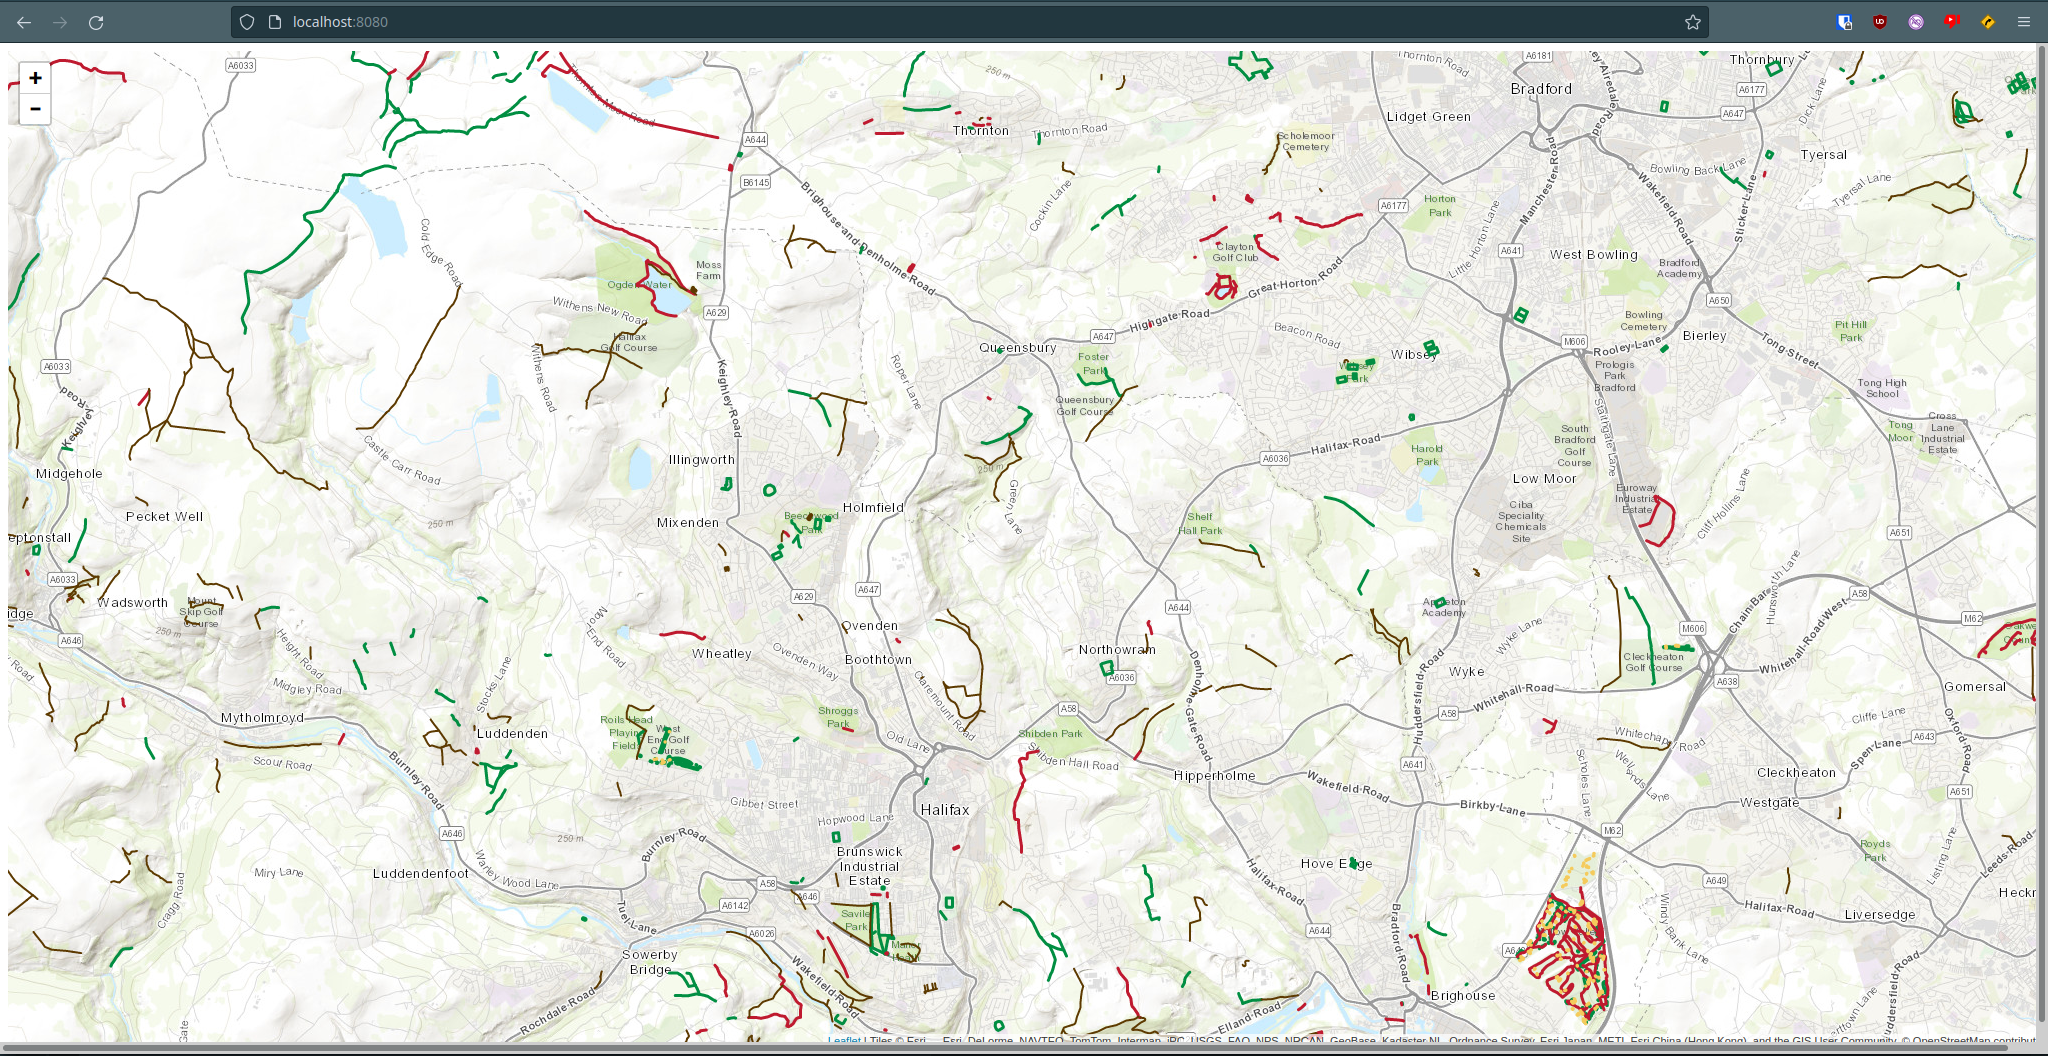
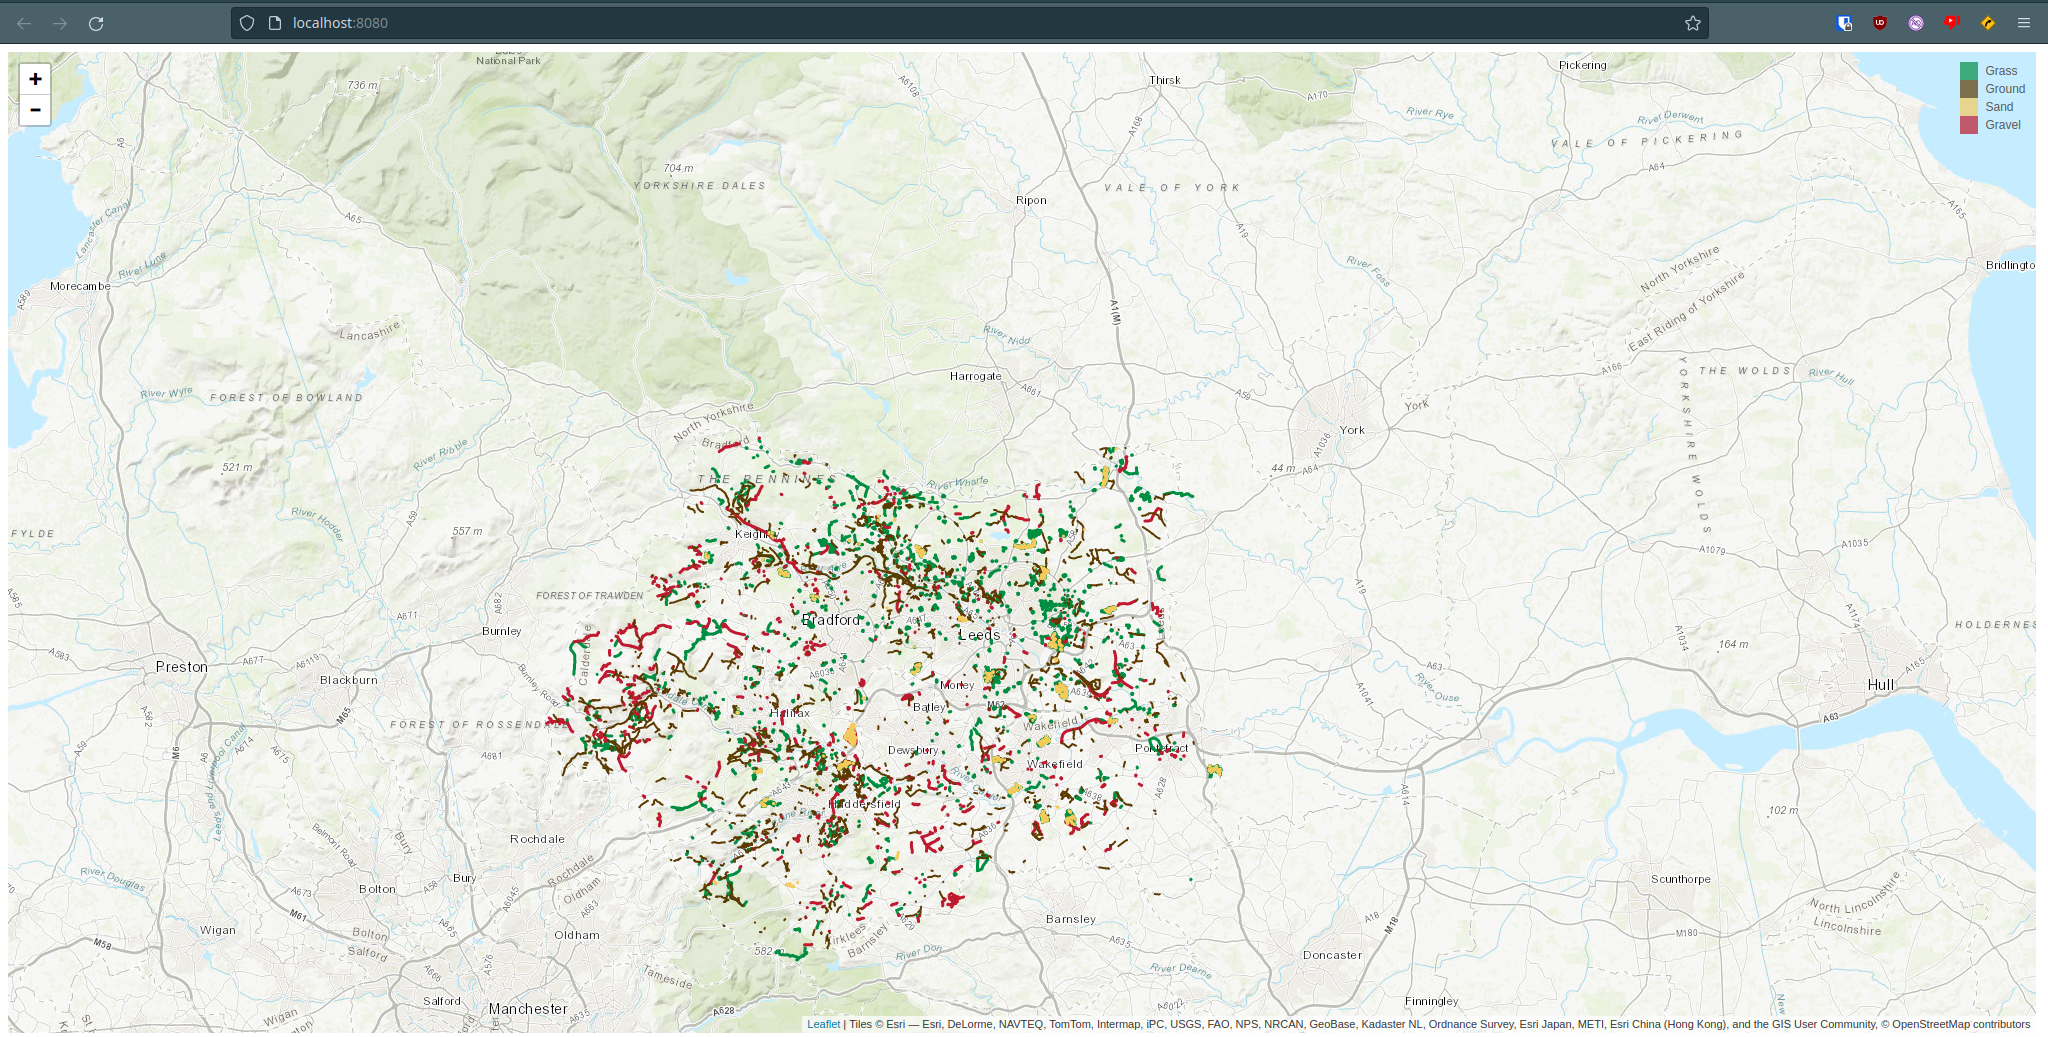
feat: add legend

diff --git a/public_html/site.js b/public_html/site.js
@@ -39,6 +39,19 @@ let vectorStyles = {
     },
 }
 
+var legend = L.control({position: 'topright'});
+legend.onAdd = function (map) {
+
+    var div = L.DomUtil.create('div', 'info legend');
+    div.innerHTML += '<i style="background: #018E42"></i> Grass<br>';
+    div.innerHTML += '<i style="background: #5D3A00"></i> Ground<br>';
+    div.innerHTML += '<i style="background: #F5CB5C"></i> Sand<br>';
+    div.innerHTML += '<i style="background: #BF1A2F"></i> Gravel<br>';
+    return div;
+};
+
+legend.addTo(map);
+
 
 let grass = L.vectorGrid.protobuf('/tiles/{z}/{x}/{y}.pbf', {
     vectorTileLayerStyles: vectorStyles,

diff --git a/public_html/site.css b/public_html/site.css
@@ -1,4 +1,17 @@
 html, body, #map {
-    height: 100%;
-    width: 100vw;
+    height: 99%;
+    width: 99vw;
+}
+
+.legend {
+    line-height: 18px;
+    color: #555;
+}
+
+.legend i {
+    width: 18px;
+    height: 18px;
+    float: left;
+    margin-right: 8px;
+    opacity: 0.7;
 }
